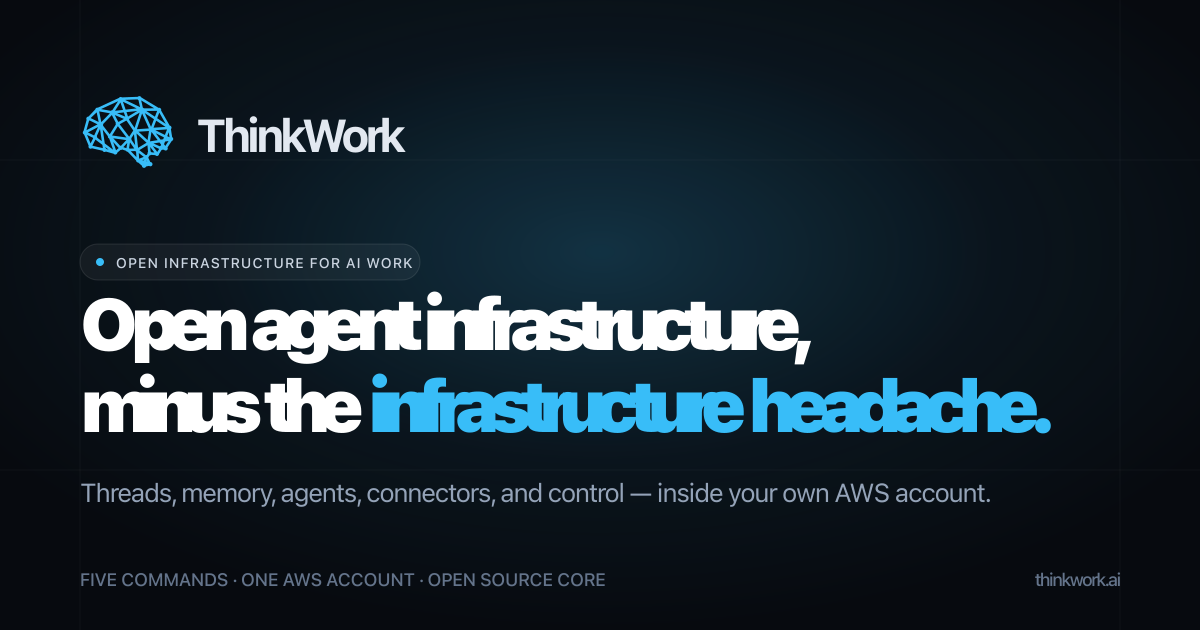
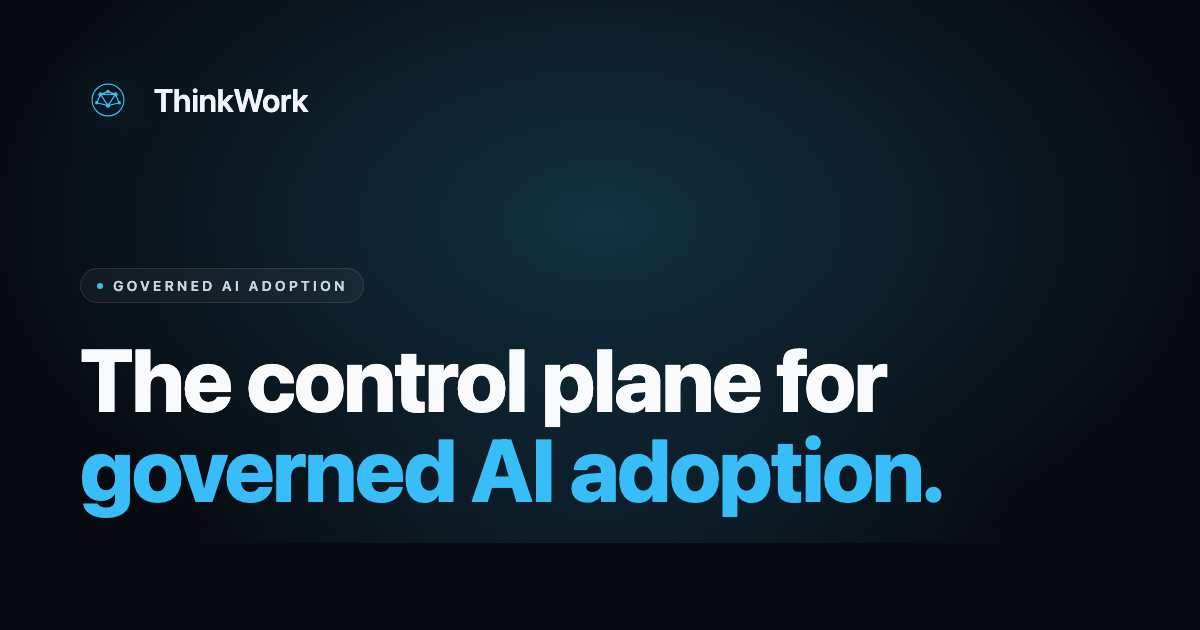
fix(www): act on reviewer feedback — must-fix copy + OG + dead code
Adversarial + CTO reviewers flagged overclaims, voice-guardrail
violations, and dead code. This commit addresses the must-fix list:

Overclaim corrections (schema vs copy):
- "Tool allow-lists" -> "Tool block-lists" (copy.ts). The schema is
  blocked_tools (deny-list); the previous framing promised a permit-
  by-default model the runtime doesn't enforce. Security sign-off can
  no longer rest on a false premise.
- "Automated gates on every template change" -> "Evaluation harness
  for every template" (proofStrip + controls items + evals lede).
  Nothing in packages/api gates a template write on eval results;
  "gate" was load-bearing language without an enforcing code path.
- "Pipe the raw cost event stream into your own FinOps system" ->
  "Cost events live in the Postgres you deployed" (costControl
  features[3]). No export surface ships; the FinOps-system framing
  implied a customer contract that doesn't exist.
- "Ready for a compliance review" -> "Inspectable per thread, per
  agent, per tenant" (audit lede). Violated the file's own "no
  unearned compliance" guardrail.

Voice-guardrail compliance (top-of-file rules finally enforced):
- FiveControls headline "The guardrails your adoption review already
  requires" -> "Governance primitives, not bolted-on guardrails"
- FiveControls lede "Every control a skeptical CTO expects" ->
  "Five first-class controls a governed rollout actually requires"
- CostControl headline "No surprise invoices from a runaway agent" ->
[…]

diff --git a/apps/www/src/lib/copy.ts b/apps/www/src/lib/copy.ts
@@ -31,7 +31,7 @@ export const hero = {
   eyebrow: "Governed AI adoption",
   headlinePart1: "The control plane for",
   headlineAccent: "governed AI adoption.",
-  lede: "Capability-granted agent templates, per-agent spend budgets, security and accuracy evals, and one admin surface for all of it — running inside the AWS account your team already operates.",
+  lede: "Capability-granted templates, per-agent spend budgets, and an evaluation harness — under one admin surface. The runtime deploys inside the AWS account your team already operates.",
   primaryCta: { label: "Read the docs", href: external.docs },
   secondaryCta: { label: "View on GitHub", href: external.github },
   headlineCandidates: [
@@ -61,7 +61,7 @@ export const proofStrip = [
   },
   {
     label: "Security + accuracy evals",
-    detail: "Automated gates on every template change, powered by AWS Bedrock AgentCore.",
+    detail: "Evaluation harness for every template, powered by AWS Bedrock AgentCore.",
   },
 ];
 
@@ -73,14 +73,14 @@ export const adoption = {
   bullets: [
     "Not a SaaS control plane you have to trust. Your runtime, your network, your data.",
     "Not a policy document. Controls are enforced in code, on every run.",
-    "Not a pilot that can't scale. The same harness a developer spins up in five commands is what an enterprise runs in production.",
+    "One system at every scale. The runtime a developer spins up in five commands is the runtime production runs on.",
   ],
 };
 
 export const controls = {
   eyebrow: "Five controls",
-  headline: "The guardrails your adoption review already requires.",
-  lede: "Every control a skeptical CTO expects to see before approving a rollout — shipped as first-class primitives, not add-ons.",
+  headline: "Governance primitives, not bolted-on guardrails.",
+  lede: "Five first-class controls a governed rollout actually requires — built into the runtime, not add-ons layered on later.",
   items: [
     {
       title: "Runs in your AWS",
@@ -104,7 +104,7 @@ export const controls = {
     },
     {
       title: "Security + accuracy evals",
-      desc: "Automated gates on every template change — AWS Bedrock AgentCore evaluators plus custom assertions.",
+      desc: "Evaluation harness for every template — AWS Bedrock AgentCore evaluators plus custom assertions.",
       icon: "evals",
     },
   ],
@@ -116,8 +116,8 @@ export const agentTemplates = {
   lede: "Agent templates are the contract between a policy decision and the agents that enforce it. Define a template once and every agent created from it inherits the boundary.",
   features: [
     {
-      title: "Tool allow-lists",
-      desc: "Scope which built-in tools and MCP servers each template may call. Anything unlisted is simply unreachable.",
+      title: "Tool block-lists",
+      desc: "Block any built-in tool or MCP server a template shouldn't reach. Agents created from the template inherit the block.",
     },
     {
       title: "Model pinning",
@@ -139,7 +139,7 @@ export const agentTemplates = {
 export const audit = {
   eyebrow: "Audit",
   headline: "Every turn leaves a trace.",
-  lede: "Every tool call, every token, every cost event is captured inside the thread that produced it. The record is durable, tenant-scoped, and ready for a compliance review without additional instrumentation.",
+  lede: "Every tool call, every token, every cost event is captured inside the thread that produced it. The record is durable, tenant-scoped, and inspectable per thread, per agent, per tenant.",
   features: [
     {
       title: "Step-by-step execution",
@@ -154,8 +154,8 @@ export const audit = {
       desc: "Thread status, priority, and the agent that ran each step travel with the record — nothing is anonymous.",
     },
     {
-      title: "Ready for evals",
-      desc: "The same traces feed directly into the AgentCore evaluator pipeline — one record, inspected two ways.",
+      title: "Evals run on the same trace",
+      desc: "AWS Bedrock AgentCore evaluators score tool safety, helpfulness, accuracy, and hallucination on the recorded turns — alongside your own regex, equals, contains, and JSON-path assertions.",
     },
   ],
   caption: "Admin web · thread detail and execution trace",
@@ -164,8 +164,8 @@ export const audit = {
 
 export const costControl = {
   eyebrow: "Cost",
-  headline: "No surprise invoices from a runaway agent.",
-  lede: "Every model call emits a cost event tagged by tenant, agent, and model. Attribution is real-time. Budgets are enforced before the loop runs away.",
+  headline: "Cost attributed where it happens.",
+  lede: "Every model call emits a cost event tagged by tenant, agent, and model. Attribution is real-time. Per-agent budgets pause execution before overruns compound.",
   features: [
     {
       title: "Real-time attribution",
@@ -177,25 +177,29 @@ export const costControl = {
     },
     {
       title: "Enforced budgets",
-      desc: "Per-agent hard caps pause execution before a runaway loop turns into a receivable.",
+      desc: "Per-agent hard caps pause execution before a runaway loop compounds into a bill.",
     },
     {
-      title: "Exportable events",
-      desc: "Pipe the raw cost event stream into your own FinOps system — you own the ledger, not a vendor.",
+      title: "Events in your database",
+      desc: "Cost events live in the Postgres you deployed. Query them directly from your AWS account — you own the ledger.",
     },
   ],
   caption: "Admin web · analytics · cost view",
   imagePath: "/images/admin/cost-analytics.png",
 };
 
+// Evals intentionally lives as a sub-feature inside Audit (see `audit.features`)
+// and as a pillar in `controls.items` / `proofStrip` until a real
+// /evaluations/$runId screenshot is captured. When it ships, these
+// bullets can seed a dedicated Evals showcase.
 export const evals = {
   eyebrow: "Evals",
-  headline: "Security and accuracy, gated automatically.",
-  lede: "Evaluations run on every template change. AWS Bedrock AgentCore ships sixteen built-in evaluators — tool safety, helpfulness, accuracy, hallucination, and more — and ThinkWork runs them alongside your custom assertions in one pass.",
+  headline: "Security and accuracy, verified against the trace.",
+  lede: "Re-run evals against any template version. AgentCore evaluators and your own deterministic assertions run against the same traces the admin already captures.",
   bullets: [
-    "AWS Bedrock AgentCore built-in evaluators for safety and accuracy.",
+    "AWS Bedrock AgentCore built-in evaluators for tool safety, helpfulness, accuracy, and hallucination.",
     "Custom deterministic assertions — regex, equals, contains, JSON path.",
-    "Red-team, tool-safety, and knowledge-base eval packs out of the box.",
+    "Red-team, tool-safety, and knowledge-base seed packs to build on.",
     "Per-template pass rates and per-test evaluator scores, archived per run.",
   ],
   caption: "Admin web · evaluations · run detail",
@@ -205,7 +209,7 @@ export const evals = {
 export const systemModel = {
   eyebrow: "One admin surface",
   headline: "Agents, templates, cost, evals, memory — one control plane.",
-  lede: "Four primitives, one surface wrapping them. Simple enough to explain to a board, strict enough to ship against.",
+  lede: "Four primitives, one surface wrapping them. Simple enough to hold in your head, strict enough to ship against.",
   nodes: [
     {
       title: "Threads",
@@ -261,7 +265,7 @@ export const mobile = {
     },
     {
       title: "Realtime by default",
-      desc: "Webhook events, agent turns, and status changes land on-device within seconds over AppSync. No pull-to-refresh dance.",
+      desc: "Webhook events, agent turns, and status changes land on-device within seconds over AppSync.",
     },
     {
       title: "On TestFlight today",
@@ -286,7 +290,7 @@ export const quickStart = {
 };
 
 export const finalCta = {
-  headlinePart1: "The harness stays",
+  headlinePart1: "The runtime stays",
   headlineAccent: "yours.",
   lede: "Deploy a governed, production-grade agent system inside the AWS account your team already runs. Keep the runtime. Keep the memory. Keep the work record.",
   primaryCta: { label: "Read the docs", href: external.docs },

diff --git a/apps/www/scripts/og-source.html b/apps/www/scripts/og-source.html
@@ -1,0 +1,128 @@
+<!doctype html>
+<html lang="en">
+  <head>
+    <meta charset="UTF-8" />
+    <title>ThinkWork OG</title>
+    <style>
+      * { margin: 0; padding: 0; box-sizing: border-box; }
+      html, body { width: 1200px; height: 630px; overflow: hidden; }
+      body {
+        background: radial-gradient(ellipse 900px 560px at 50% 35%, rgba(56, 189, 248, 0.22), transparent 70%),
+                    radial-gradient(ellipse 720px 500px at 50% 110%, rgba(56, 189, 248, 0.12), transparent 70%),
+                    #070a0f;
+        color: #e2e8f0;
+        font-family: -apple-system, BlinkMacSystemFont, "SF Pro Display", "Segoe UI", Roboto, Helvetica, Arial, sans-serif;
+        display: flex;
+        flex-direction: column;
+        padding: 72px 80px;
+        position: relative;
+      }
+      .topline {
+        display: flex;
+        align-items: center;
+        gap: 18px;
+      }
+      .mark {
+        width: 56px;
+        height: 56px;
+        color: #38bdf8;
+        filter: drop-shadow(0 0 20px rgba(56, 189, 248, 0.45));
+      }
+      .wordmark {
+        font-size: 32px;
+        font-weight: 600;
+        letter-spacing: -0.01em;
+        color: #f1f5f9;
+      }
+      .eyebrow {
+        margin-top: 140px;
+        display: inline-flex;
+        align-items: center;
+        gap: 10px;
+        padding: 8px 16px;
+        border-radius: 999px;
+        border: 1px solid rgba(255, 255, 255, 0.1);
+        background: rgba(255, 255, 255, 0.04);
+        font-size: 14px;
+        font-weight: 600;
+        letter-spacing: 0.22em;
+        text-transform: uppercase;
+        color: #cbd5e1;
+        width: fit-content;
+      }
+      .eyebrow-dot {
+        width: 6px;
+        height: 6px;
+        border-radius: 999px;
+        background: #38bdf8;
+      }
+      .headline {
+        margin-top: 32px;
+        font-size: 88px;
+        font-weight: 800;
+        letter-spacing: -0.02em;
+        line-height: 1.02;
+        color: #f8fafc;
+        max-width: 1000px;
+      }
+      .accent { color: #38bdf8; }
+      .tagline {
+        margin-top: 36px;
+        font-size: 26px;
+        line-height: 1.4;
+        color: #94a3b8;
+        max-width: 880px;
+      }
+      .footer {
+        position: absolute;
+        bottom: 56px;
+        left: 80px;
+        right: 80px;
+        display: flex;
+        align-items: center;
+        justify-content: space-between;
+        font-family: "SF Mono", Menlo, Monaco, Consolas, monospace;
+        font-size: 14px;
+        letter-spacing: 0.18em;
+        text-transform: uppercase;
+        color: #475569;
+      }
+      .footer-right { color: #38bdf8; }
+    </style>
+  </head>
+  <body>
+    <div class="topline">
+      <!-- BrainMark simplified to match the site -->
+      <svg class="mark" viewBox="0 0 120 120" fill="none" xmlns="http://www.w3.org/2000/svg">
+        <g stroke="currentColor" stroke-width="2.5" stroke-linecap="round" stroke-linejoin="round" fill="none">
+          <circle cx="60" cy="60" r="34" />
+          <circle cx="44" cy="48" r="3.5" fill="currentColor" />
+          <circle cx="76" cy="48" r="3.5" fill="currentColor" />
+          <circle cx="60" cy="72" r="3.5" fill="currentColor" />
+          <circle cx="36" cy="66" r="2.5" fill="currentColor" />
+          <circle cx="84" cy="66" r="2.5" fill="currentColor" />
+          <circle cx="60" cy="42" r="2.5" fill="currentColor" />
+          <path d="M44 48 L76 48 M44 48 L60 72 M76 48 L60 72 M36 66 L44 48 M36 66 L60 72 M84 66 L76 48 M84 66 L60 72 M60 42 L44 48 M60 42 L76 48" />
+        </g>
+      </svg>
+      <span class="wordmark">ThinkWork</span>
+    </div>
+
+    <span class="eyebrow">
+      <span class="eyebrow-dot"></span>
+      Governed AI adoption
+    </span>
+    <h1 class="headline">
+      The control plane for<br />
+      <span class="accent">governed AI adoption.</span>
+    </h1>
+    <p class="tagline">
+      Capability-granted templates, per-agent spend budgets, and an evaluation harness &mdash; under one admin surface, running inside your AWS.
+    </p>
+
+    <div class="footer">
+      <span>thinkwork.ai</span>
+      <span class="footer-right">Your runtime · Your memory · Your AWS</span>
+    </div>
+  </body>
+</html>

diff --git a/apps/www/public/images/admin/CAPTURE.md b/apps/www/public/images/admin/CAPTURE.md
@@ -1,35 +1,50 @@
 # Homepage screenshot inventory
 
-The homepage pulls product shots from this folder (`apps/www/public/images/admin/`) and `apps/www/public/images/mobile/`. Each image is used via `ScreenshotFrame.astro`; set `pending={true}` to fall back to a styled SVG mock if the PNG isn't ready.
+The homepage pulls product shots from this folder (`apps/www/public/images/admin/`) and `apps/www/public/images/mobile/`. Each image is used via `ScreenshotFrame.astro`, which renders a window-chrome bezel around the PNG.
 
-## Admin captures
+## Shipped (in `public/images/`)
 
-| File | Used by | Status |
-|------|---------|--------|
-| `dashboard.png` | `SystemModel.astro` | shipped |
-| `agent-templates.png` (capabilities list) | `AgentTemplates.astro` | shipped |
-| `cost-analytics.png` | `CostControl.astro` | shipped |
-| `memories-graph.png` (all-agents graph) | `MemoryWedge.astro` | shipped |
-| `memories-graph-filtered.png` | — | reserve asset (single-agent graph view) |
-| `thread-detail.png` | — | reserve asset (thread execution trace, useful for a future "Audit trail" section) |
-| `evals-run.png` | — | **not yet captured**. The dedicated Evals showcase section is currently removed to avoid a placeholder. Evals still appears as pillar #5 in `FiveControls.astro` and as a proof point in `ProofStrip.astro`. When a real `/evaluations/$runId` capture lands, re-add an `Evals.astro` component (see `git log` — it was deleted in the `feat(www): unify design system` follow-up; a prior version using `CapabilityShowcase` is recoverable from the history) and compose it in `src/pages/index.astro` between `CostControl` and `SystemModel`. |
+### Admin
 
-## Mobile captures
+| File | Used by |
+|------|---------|
+| `dashboard.png` | `SystemModel.astro` |
+| `agent-templates.png` (capabilities list) | `AgentTemplates.astro` |
+| `cost-analytics.png` | `CostControl.astro` |
+| `thread-detail.png` | `Audit.astro` |
+| `memories-graph.png` (all-agents graph) | `MemoryWedge.astro` |
 
-| File | Used by | Status |
-|------|---------|--------|
-| `threads-list.png` | `MobileApp.astro` (left phone) | shipped |
-| `wiki-graph.png` | `MobileApp.astro` (right phone) | shipped |
-| `wiki-list.png` | — | reserve asset |
-| `tasks-list.png` | — | legacy (pre-wiki-first narrative); can be deleted when you're sure nothing else references it |
+### Mobile
+
+| File | Used by |
+|------|---------|
+| `threads-list.png` | `MobileApp.astro` (left phone) |
+| `wiki-graph.png` | `MobileApp.astro` (right phone) |
+
+## Reserve (in `apps/www/assets/reserve/` — NOT shipped)
+
+Kept versioned in the repo for future pages or decks but excluded from the static build so they don't inflate payload.
+
+- `admin/memories-graph-filtered.png` — single-agent view of the memory graph
+- `mobile/wiki-list.png` — wiki list view from mobile
+- `mobile/tasks-list.png` — legacy tasks tab capture (pre-wiki-first narrative)
+
+## Not yet captured
+
+- `evals-run.png` — would be `/evaluations/$runId`. Until it lands, the Evals narrative lives as:
+  - Pillar #5 in `FiveControls` (`copy.ts → controls.items[4]`)
+  - Proof point #5 in `ProofStrip` (`copy.ts → proofStrip[4]`)
+  - Sub-feature "Evals run on the same trace" inside Audit (`copy.ts → audit.features[3]`)
+  - The `evals` object in `copy.ts` still holds a full section's worth of copy so the dedicated showcase is easy to re-add once a real capture exists.
 
 ## How to swap in a new capture
 
-1. Save the PNG to the path above, overwriting the existing file. Aspect targets: roughly 16:10 for admin, vertical phone frame for mobile.
+1. Save the PNG to the matching path above. Aspect targets: roughly 16:10 for admin, vertical phone frame for mobile.
 2. Strip any real tenant names or PII before committing.
 3. Keep each file under ~600 KB.
-4. If you're replacing an image that was marked pending, set `pending={false}` (or remove the attribute) on the component that uses it.
 
-## Where to find these images for decks, pitches, or other projects
+## Adding the Evals showcase back
 
-This folder IS the canonical asset store — anything here ships with the www site and is durably versioned. For reuse outside the www build, copy from this directory.
+1. Capture `/evaluations/$runId` and save to `public/images/admin/evals-run.png`.
+2. Create `src/components/Evals.astro` that wraps `CapabilityShowcase` with the `evals` object from `copy.ts` (convert `evals.bullets` to `features: [{ title, desc }]` objects — see `agentTemplates.features` for shape).
+3. Compose `<Evals />` in `src/pages/index.astro` between `<CostControl />` and `<SystemModel />`.
